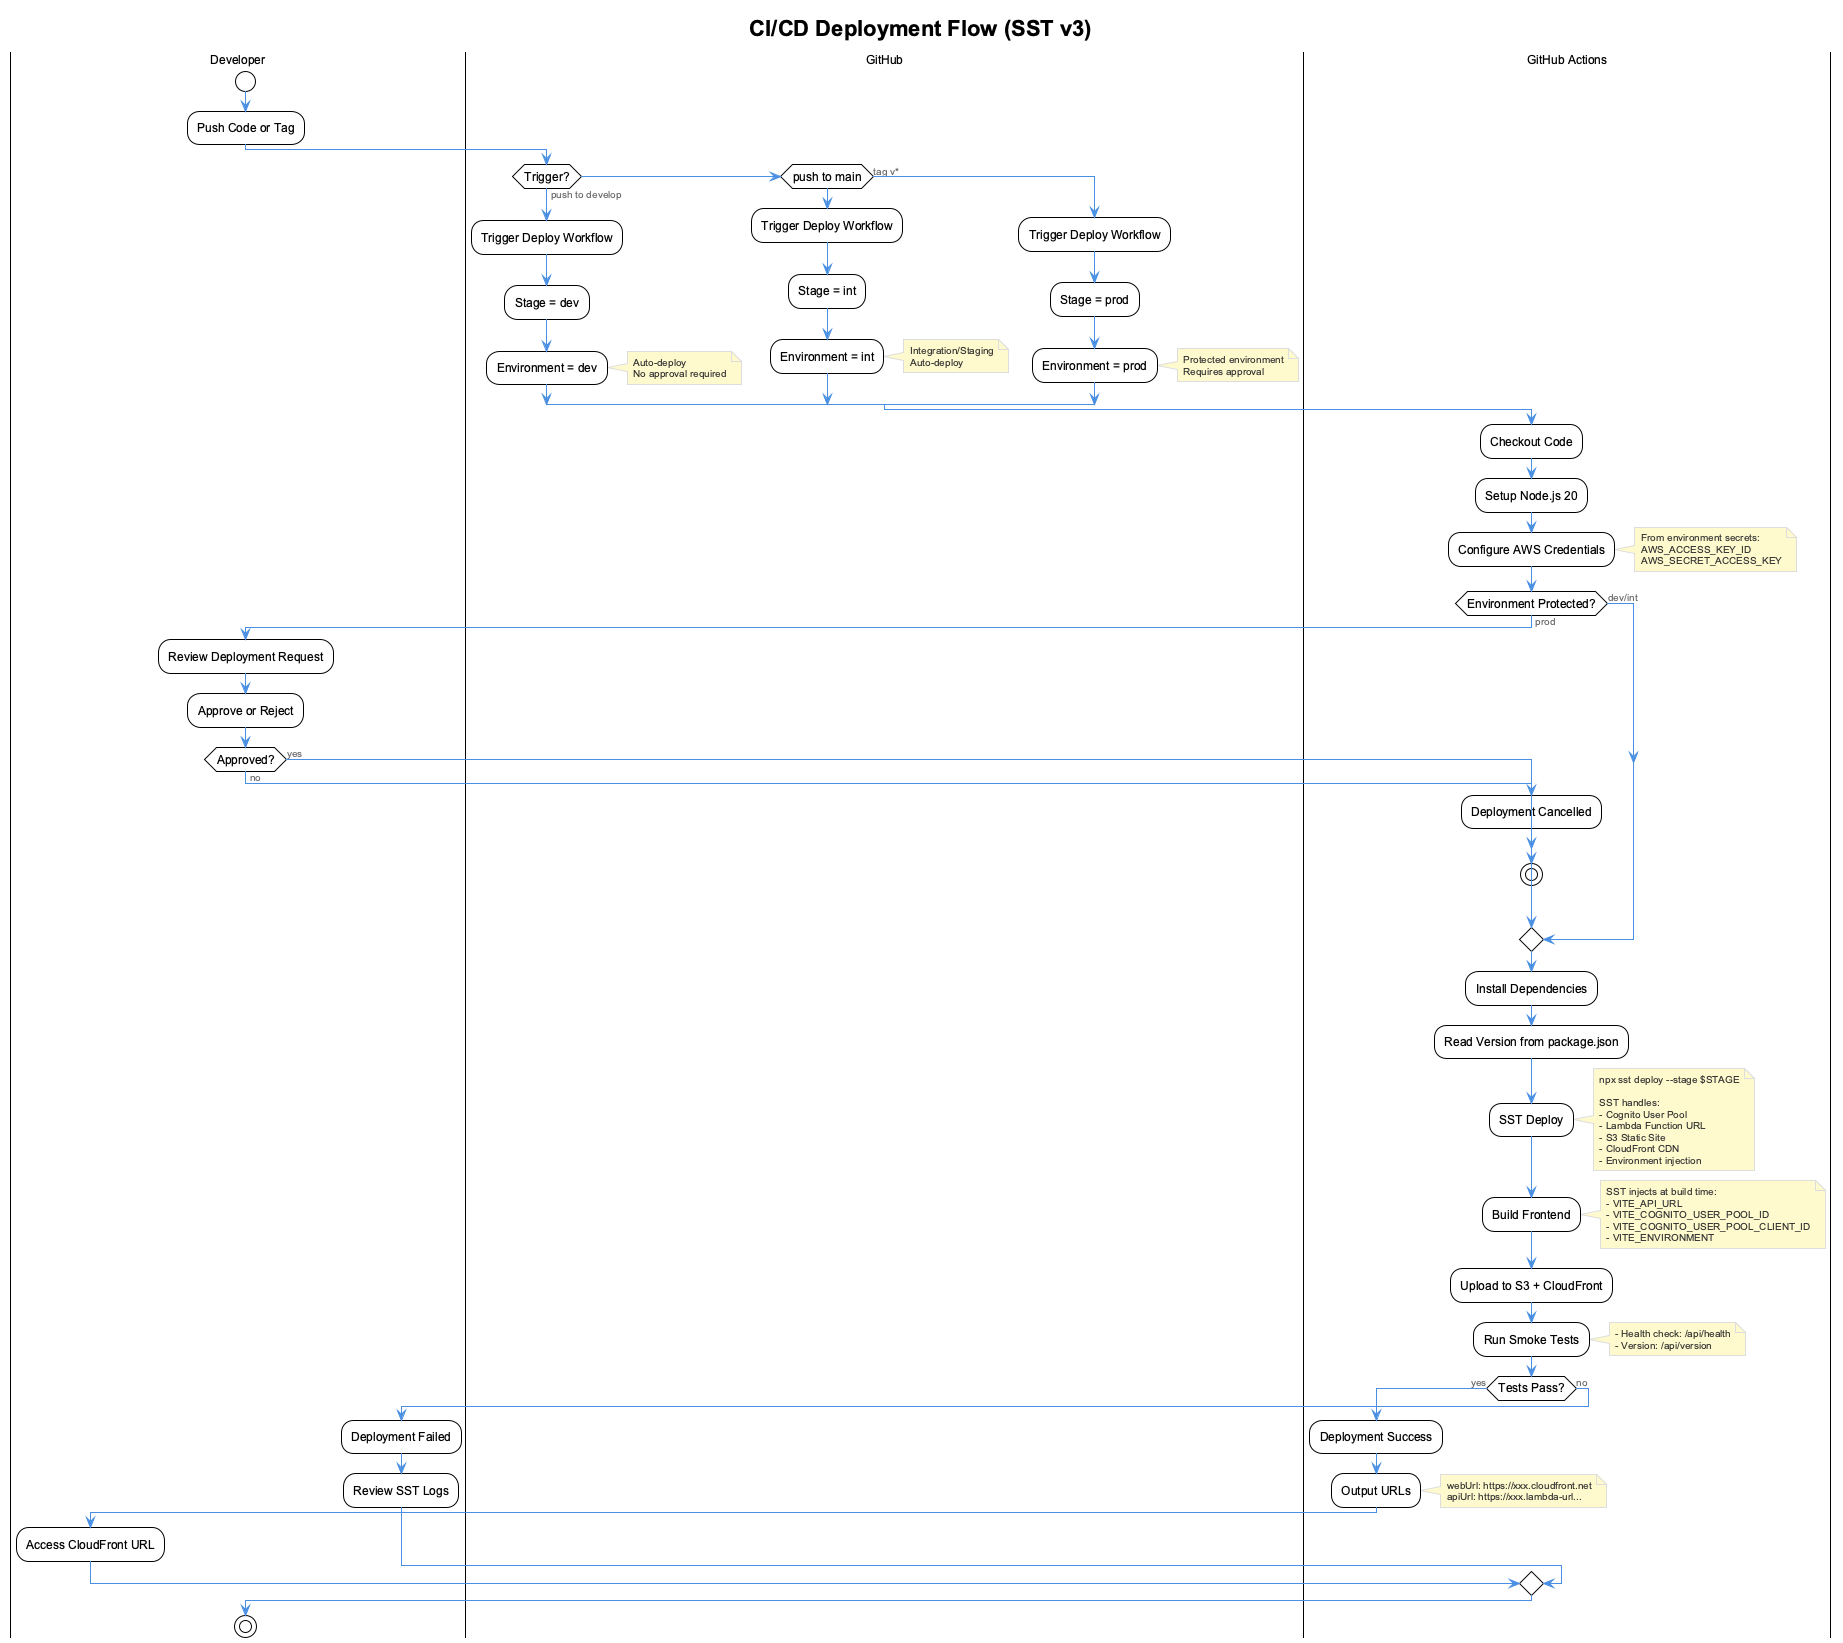
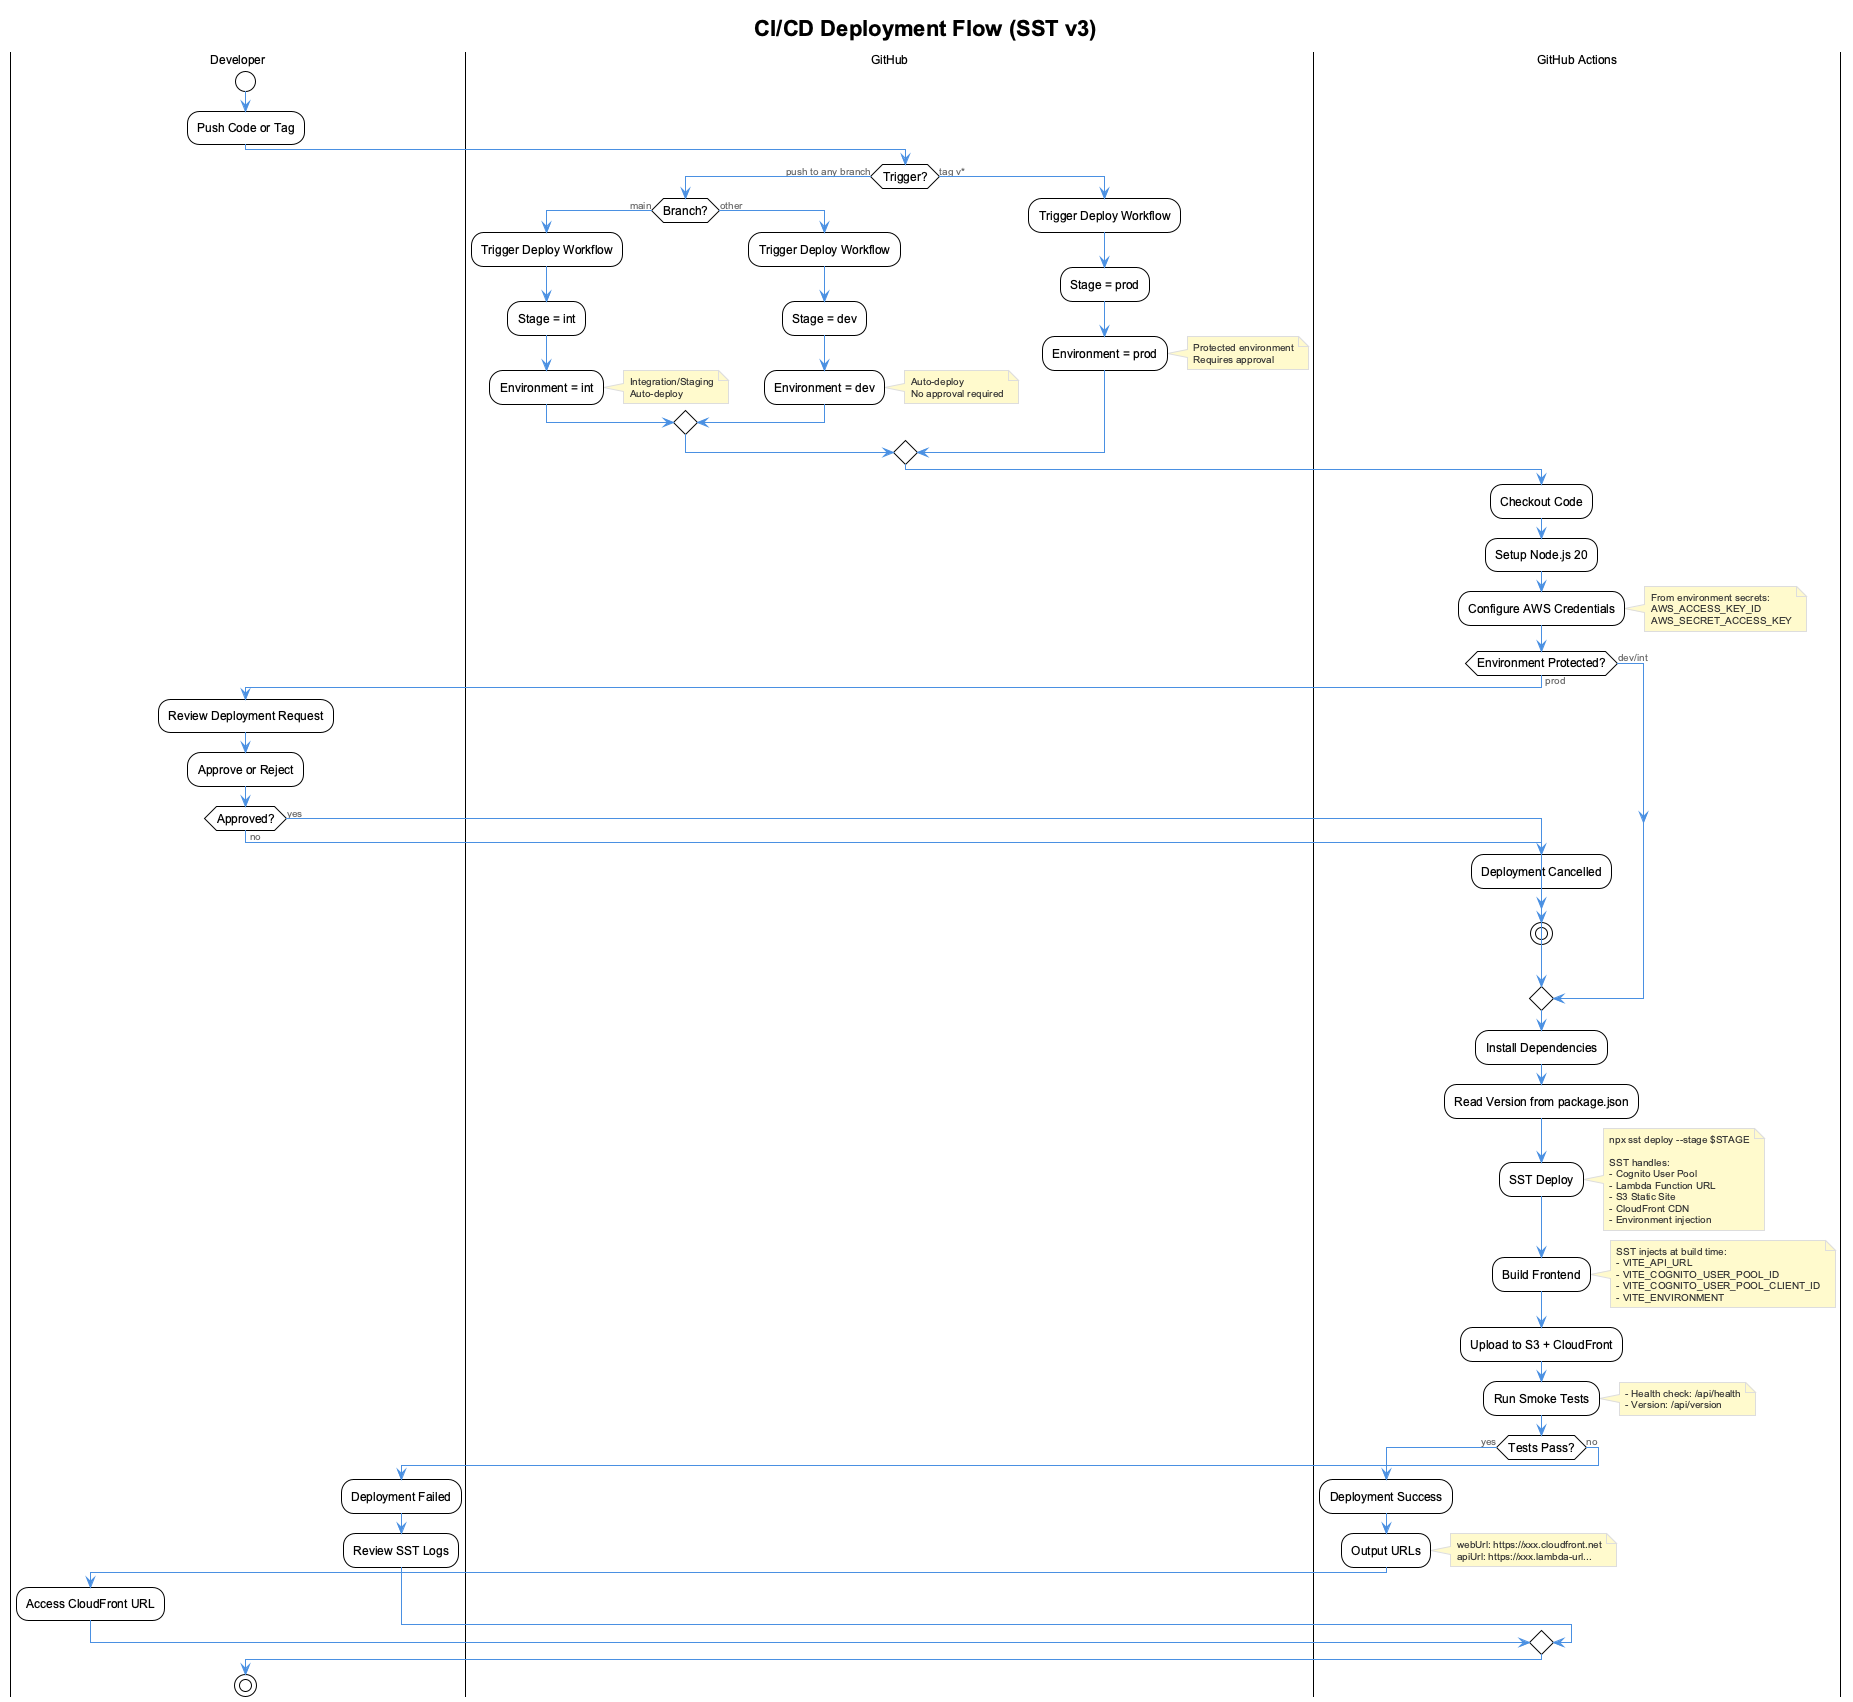
feat: "push to any branch" -> dev, "main" -> int, "tag" --> prod

diff --git a/docs-content/deployment-guide.md b/docs-content/deployment-guide.md
@@ -168,20 +168,20 @@ The project uses GitHub Actions for automated deployments with environment prote
 
 | Action | Deploys To | Approval Required |
 |--------|------------|-------------------|
-| Push to `develop` | **dev** | No (auto-deploy) |
+| Push to any branch (except `main`) | **dev** | No (auto-deploy) |
 | Push to `main` | **int** | No (auto-deploy) |
 | Tag `v*` (e.g., `v1.0.0`) | **prod** | Yes (manual approval) |
 | Manual workflow dispatch | Selected stage | Depends on environment |
 
 ```bash
-# Deploy to dev (automatic on push to develop)
-git checkout develop
+# Deploy to dev (automatic on push to any feature branch)
+git checkout -b feature/my-feature
 git add . && git commit -m "feat: new feature"
-git push origin develop
+git push origin feature/my-feature
 
-# Deploy to int (automatic on push to main)
+# Deploy to int (automatic on push/merge to main)
 git checkout main
-git merge develop
+git merge feature/my-feature
 git push origin main
 
 # Deploy to prod (requires approval)

diff --git a/README.md b/README.md
@@ -96,7 +96,7 @@ Open [http://localhost:5173](http://localhost:5173) in your browser.
 
 | Action | Deploys To | Approval |
 |--------|------------|----------|
-| `git push origin develop` | dev | Auto |
+| `git push origin <any-branch>` | dev | Auto |
 | `git push origin main` | int | Auto |
 | `git tag v1.0.0 && git push --tags` | prod | Required |
 
